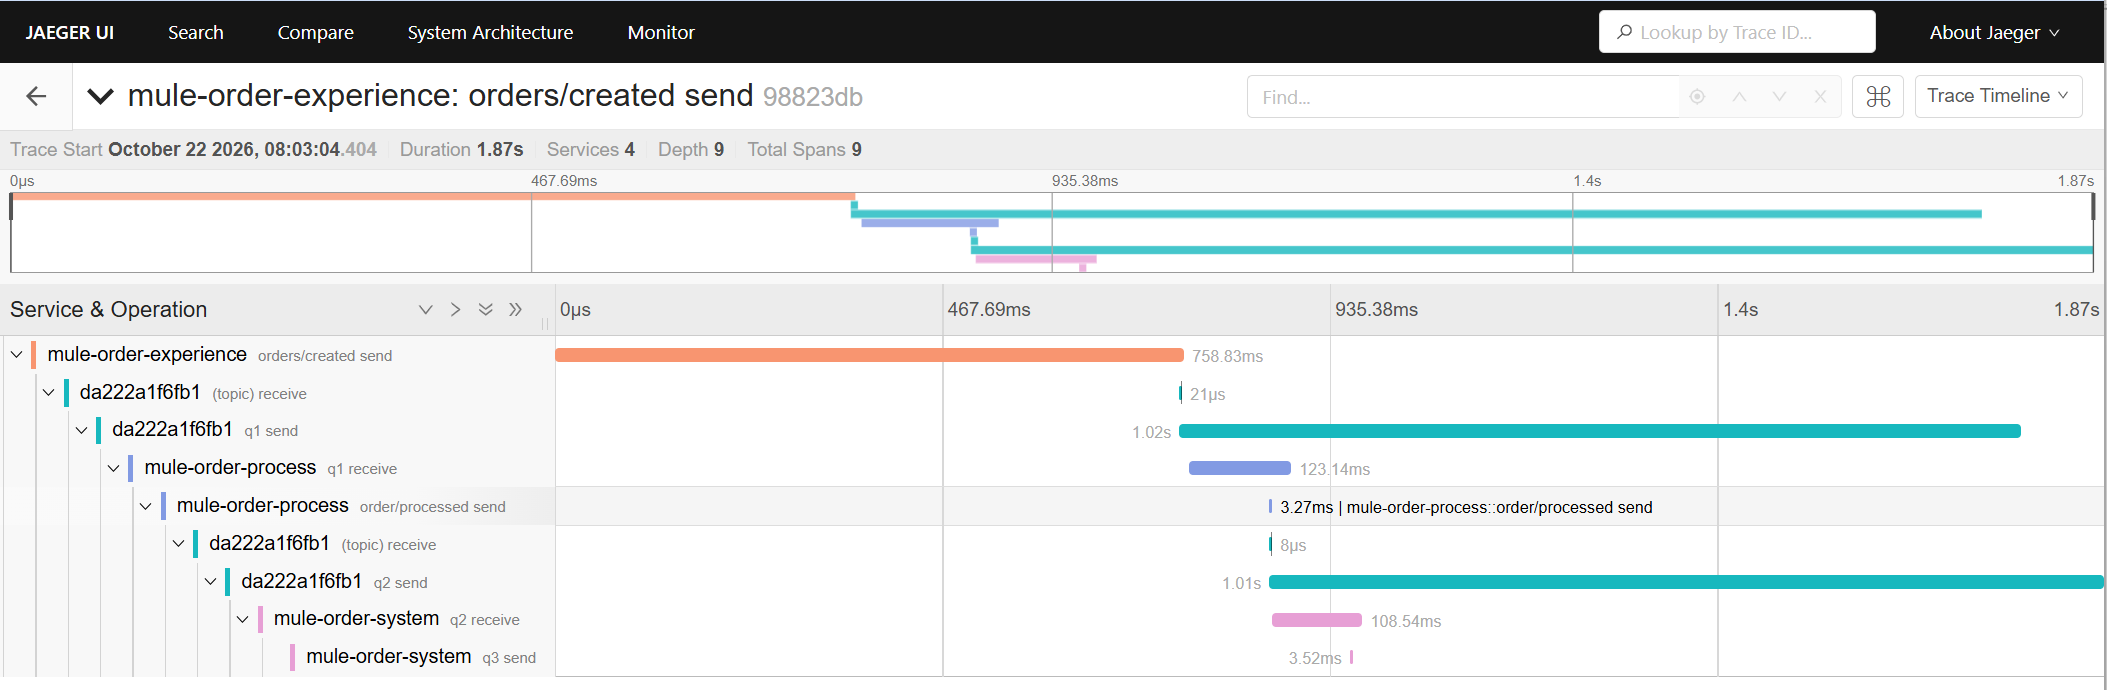
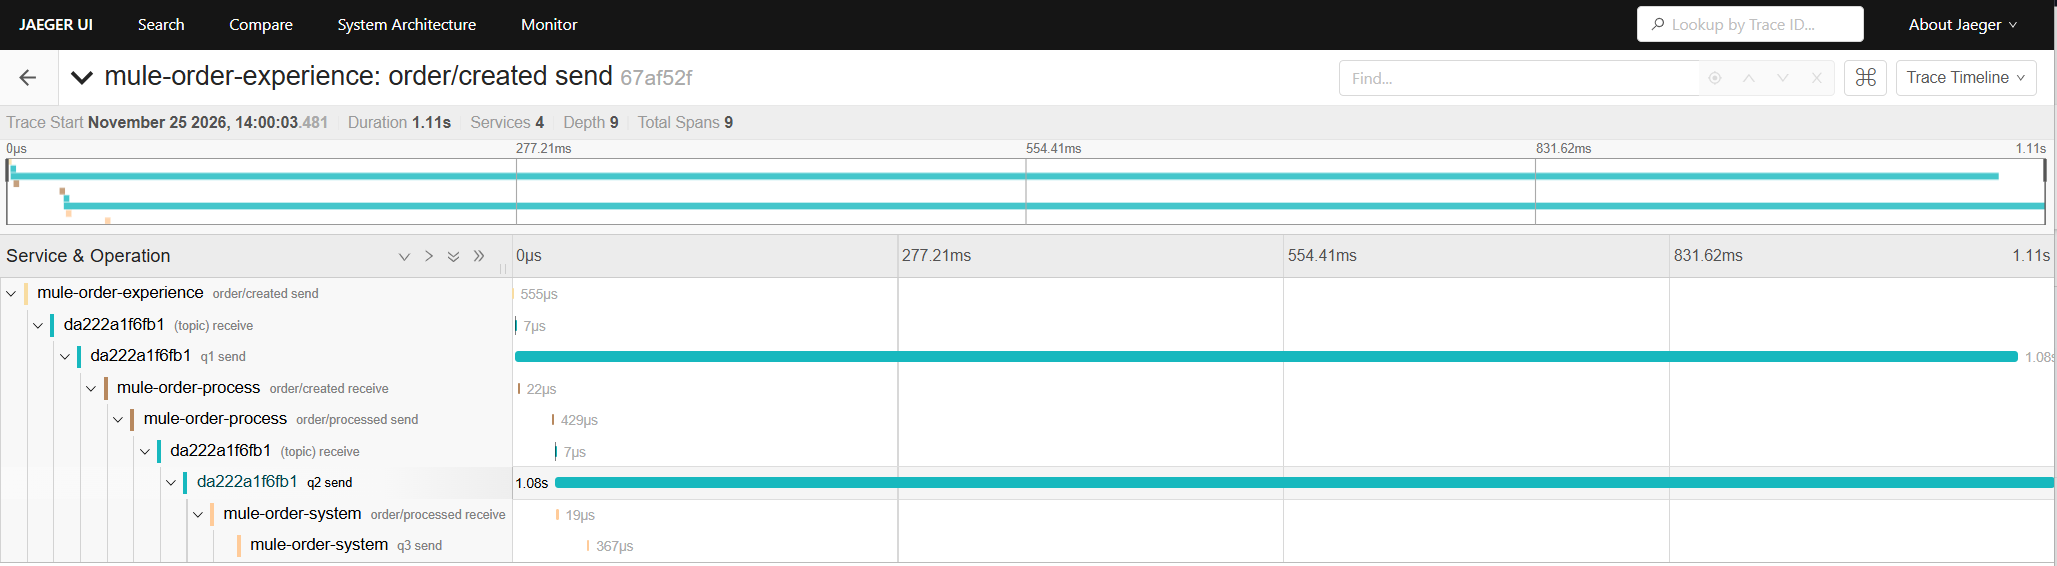
Update REAME.md and result image

diff --git a/README.md b/README.md
@@ -1,10 +1,11 @@
 # jms-dt-test
 
-A MuleSoft 4 application that demonstrates distributed tracing across multiple Mule flows using the MuleSoft JMS connector built with Solace tracing (`mule-jms-dt-connector`): the standard `jms:` components, with OpenTelemetry spans and Solace-native context propagation added to the Generic Connection. A trace started by an HTTP request is carried through each hop (`traceparent` / `tracestate`) via a Solace event broker, so every step shares one end-to-end trace.
+A MuleSoft 4 application that demonstrates distributed tracing across multiple Mule flows using the Solace Tracing connector (i.e. a wrapper for the Mulesoft JMS connector that includes context propagation). A trace started by an HTTP request is carried through each hop (`traceparent` / `tracestate`) via a Solace event broker, so every step shares one end-to-end trace.
 
-## JMS connector with Solace tracing
+## Mulesoft JMS Solace DT Connector:
+This must be built first, see:
 
-Built from the MuleSoft JMS connector source on the `solace-tracing` branch (see `SOLACE-TRACING.md` in that repository). Install it locally with `mvn clean install -DskipTests -Dmdep.skip=true` using JDK 11.
+https://github.com/RonInglesby/mulesoft-jms-solace-dt-connector
 
 ## Flow overview
 
@@ -18,30 +19,30 @@ Built from the MuleSoft JMS connector source on the `solace-tracing` branch (see
 |---|---|---|
 | 1 | HTTP Listener | `POST /orders_exp` |
 | 2 | Logger | Logs the incoming payload |
-| 3 | JMS Publish | Publishes to topic `order/created` (span `order/created send`). Passes the caller's `traceparent` header as a message property if one was sent, otherwise starts a new trace |
-| 4 | Logger | `PRODUCER out` |
+| 3 | Solace Tracing Publish | Publishes to topic `order/created`. Continues the caller's trace if a `traceparent` header was sent, otherwise starts a new trace. Result stored in `vars.outTrace` so the payload is untouched |
+| 4 | Logger | `PRODUCER out` with the trace info |
 | 5 | Transform Message | Returns `{ "orderStatus": "accepted" }` to the caller |
 
 ### orderProcess (`mule-order-process`)
 
 | Step | Component | Detail |
 |---|---|---|
-| 1 | JMS Listener | Consumes from queue `q1` (span `q1 receive`, parented on the broker's span) |
+| 1 | Solace Tracing Listener | Consumes from queue `q1` (span `q1 receive`) |
 | 2 | Logger | `PROCESS in` with trace context source and `traceparent` |
-| 3 | JMS Publish | Publishes to topic `order/processed`, with `attributes.traceparent` as the `traceparent` property |
-| 4 | Logger | `PROCESS out` |
+| 3 | Solace Tracing Publish | Publishes to topic `order/processed`, passing on `traceparent` / `tracestate` |
+| 4 | Logger | `PROCESS out` with the trace info |
 
-The listener uses AUTO ack: the message is acknowledged when the flow succeeds and redelivered when it fails (`maxRedelivery="10"` on the config). Also configure a max redelivery count and a dead message queue (DMQ) on `q1` on the broker.
+The listener acknowledges the message when the flow succeeds and asks the broker to redeliver when it fails. Configure a max redelivery count and a dead message queue (DMQ) on `q1` on the broker.
 
 ### orderSystem (`mule-order-system`)
 
 | Step | Component | Detail |
 |---|---|---|
-| 1 | JMS Listener | Consumes from queue `q2` (span `q2 receive`) |
+| 1 | Solace Tracing Listener | Consumes from queue `q2` (span `q2 receive`) |
 | 2 | Logger | `SYSTEM in` with trace context source and `traceparent` |
 | 3 | Transform Message | Builds the result: `customerId`, each order item set to status `ordered`, and `totalCost` (sum of item prices) |
-| 4 | JMS Publish | Publishes to queue `q3` (destination type `QUEUE`), with `attributes.traceparent` as the `traceparent` property |
-| 5 | Logger | `SYSTEM out` |
+| 4 | Solace Tracing Publish | Publishes to queue `q3` (destination type `QUEUE`), passing on trace context |
+| 5 | Logger | `SYSTEM out` with the trace info |
 
 ## Broker configuration
 
@@ -119,7 +120,7 @@ POST http://localhost:8081/orders_exp
 | Item | Value |
 |---|---|
 | Project name | jms-dt-test |
-| Maven artifact | `com.mycompany:jms-dt-bhp3:1.0.0-SNAPSHOT` |
+| Maven artifact | `com.mycompany:jms-dt-test:1.0.0-SNAPSHOT` |
 | Packaging | `mule-application` |
 | Mule runtime | 4.12.4 |
 | Mule Maven plugin | 4.10.1 |
@@ -130,8 +131,7 @@ POST http://localhost:8081/orders_exp
 |---|---|
 | HTTP (`mule-http-connector`) | 1.12.1 |
 | Sockets (`mule-sockets-connector`) | 1.2.10 |
-| JMS with Solace tracing (`mule-jms-dt-connector`) | 1.11.0-SOLACE-TRACING-1 (local build) |
-| Solace JMS API (`sol-jms`, shared library) | 10.17.0 |
+| Mulesoft JMS with Solace DT (`mule-jms-dt-connector`) | 1.11.0-SOLACE-TRACING-3 |
 
 ### Source files
 
@@ -146,11 +146,11 @@ POST http://localhost:8081/orders_exp
 mvn clean package
 ```
 
-Deploy the resulting `mule-application` JAR to a Mule 4.12.4 runtime (or run from Anypoint Studio), with `config.properties` pointing at your broker (JNDI connection factory `solace.jndi.connectionFactory`), your OpenTelemetry Collector (`otel.endpoint`) and the HTTP port. Each flow has its own JMS config (`SOLACE_JMS_EXP`, `SOLACE_JMS_PROCESS`, `SOLACE_JMS_SYSTEM`) so each appears as its own service in Jaeger. `global.xml` also declares the Bitronix transaction manager (`<bti:transaction-manager/>`). The JMS connector build needs it on Mule 4.12 to start; the flows don't use XA.
+Deploy the resulting `mule-application` JAR to a Mule 4.12.4 runtime (or run from Anypoint Studio), with the `Solace_Tracing_Config` and `HTTP_Listener_config_exp_api` global configs pointing at your broker and HTTP port.
 
 ## Observing the trace
 
-At startup each JMS config logs `JMS tracing enabled: service.name=... Solace-native context available`. The `PROCESS in` and `SYSTEM in` lines log the trace context source (it should be `solace`) and the receive span's `traceparent`; the trace ID should be the same in both. In your tracing backend all spans appear under one trace: `order/created send` → broker spans → `q1 receive` → `order/processed send` → broker spans → `q2 receive` → `q3 send`.
+Each flow logs the trace context on entry and exit (`PRODUCER out`, `PROCESS in/out`, `SYSTEM in/out`). The `traceparent` trace ID should be identical across all of these log lines, and in your tracing backend all spans should appear under one trace: `orders/created send` → `q1 receive` → `order/processed send` → `q2 receive` → `q3 send`.
 
 ## Jaeger 
 ![Jaeger result](result.png)
